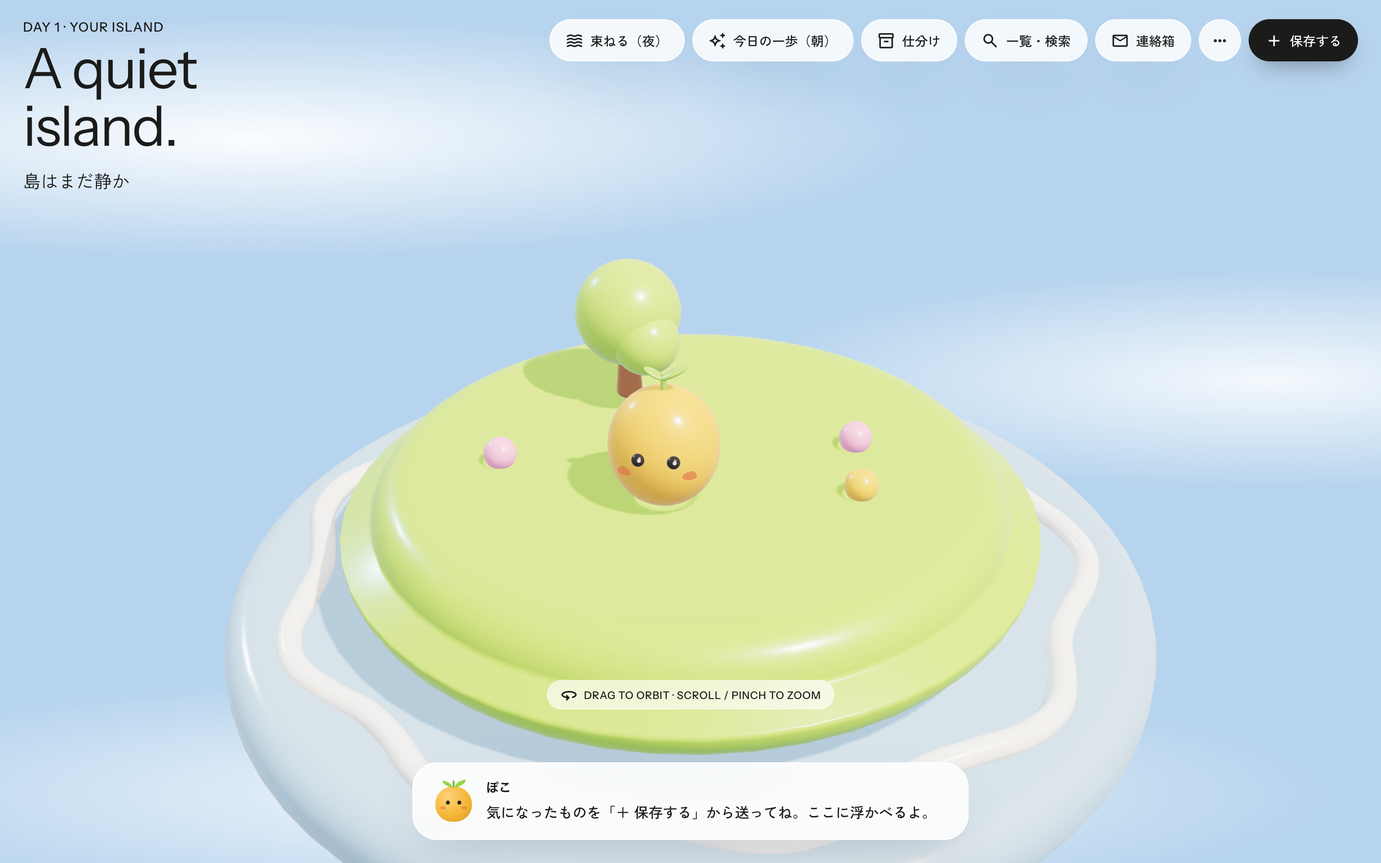
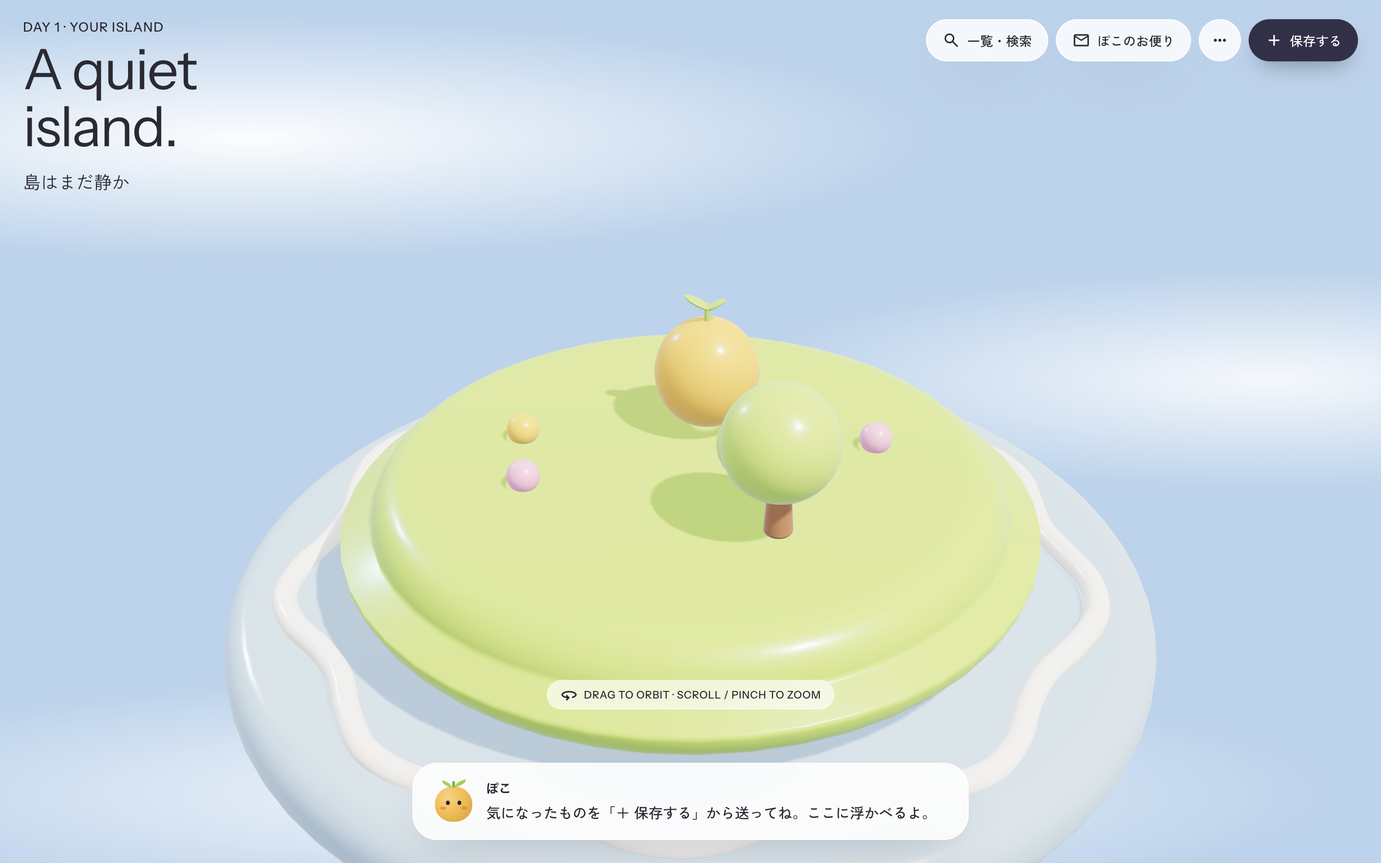
docs: 提出書類を実装に合わせて更新し、READMEを審査員向けに書き直す (#54)
* feat: 不特定多数にログインされてもAIの課金が嵩まないようにする

匿名認証は uid をタダで無限に作れるため、#29 で入れた callable の認証は
課金ガードとして機能していなかった。実際に開いていた穴は4つ。

- 夜の整理の items に件数上限がなく、埋め込みが Promise.all で無制限に並列になる
  （1リクエストで数千回の Gemini 呼び出しを起こせた）
- imageDataUrl / rawText も無制限で、callable の 10MB まで積めた
- レート制限が per-uid も per-IP も無く、実質「無料の Gemini プロキシ」だった
- onCall / onSchedule に maxInstances の指定が1つも無かった

提出要件4（デプロイURLを11/14まで稼働）があるため、止めるのではなく
劣化させる設計にした。上限超過は resource-exhausted で弾くが、クライアントは
ローカルエンジンにフォールバックするので画面は止まらない。カウンタの読み書きが
失敗したときも通す（ガードの故障で本番のAIを全滅させない）。

App Check は登録と計測だけで、サーバーでは検証しない。提出前日に適用すると
設定の取りこぼしで本番のAIが全滅するため、切り替えは提出後に回す。

候補比較と残余リスクは docs/decisions/005-ai-cost-guard.md に記録した。
UI の「月予算上限 $3」が表示だけで強制されていない件は、提出物の文言修正が
必要なものとして implementation-status.md 2.9 に積んである。

* docs: 定時バッチがクォータを通っていないことを記録する

夜23:00 / 朝8:00のバッチは callable を経由せずユースケースを直接呼ぶため、
カウンタを進めも読みもしない。「全体 20,000 / 日」にバッチぶんは含まれない。
バッチの量は listUserIds(100) と件数上限で決まるので当面は放置する。

* docs: 提出書類（説明ドキュメント・著作物台帳）を実装に合わせて更新し、READMEを審査員向けに書き直す (#53)

* docs: 動作確認手順を #41 以降の新しいホーム UI に合わせて書き直す

ヘッダーの［束ねる（夜）］［今日の一歩（朝）］は #41 で廃止され、
意味がある日だけドックに［まとめる］［束ね案を確認］［今日の一歩を見る］として出る。
審査員がそのままなぞる手順なので、product-doc 6.2 と README 2 章を実装に合わせた。

- 初回は 7 画面のストーリーボード（#40/#48）。「あとで」で飛ばせることを明記
- 束ね案の承認（S5）と、できた後の［まだ］［できた］（#45/#51）を手順に反映
- 4 人目のキャラクター「モフ」（GLB + Draco、ADR-006）を product-doc 7.1 と README に追記
- 7.1 の名称を実装に合わせる（いつか箱 / ○○のお便り）

* docs: 4章の起動契機も新しいボタン名にそろえる

* docs: README のスクリーンショットを新しい UI で撮り直す

旧 UI（ヘッダーに［束ねる（夜）］［今日の一歩（朝）］）のままで、
[…]

diff --git a/README.md b/README.md
@@ -1,120 +1,189 @@
-# hannari-hustlers
+# 島アプリ — 集めるを、動くに。
 
-保存したインスピレーションを 3D の島に浮かべ、PARA で整理して、1 日 1 つだけ小さな実行を提案するアプリ。Google ハッカソン参加作品。
+> SNS で見つけた「いつかやりたい」を、3D の自分の島に浮かべて、1 日 1 つだけ小さな一歩にしてくれる Web アプリ。
 
-> **初めての人は [docs/onboarding.md](docs/onboarding.md) から読んでください。** 環境の用意から1日の流れまで、これ1枚で始められます。
+**▶ 今すぐ試す: https://hannari-hustlers.web.app**（ログイン不要・スマホ / PC 対応・ホーム画面に追加できます）
 
-カテゴリ: クリエイティブ / 提出締切: **2026-11-10（火）19:00**
+DevFest GDGoC Japan 2026 Hackathon 提出作品 / カテゴリ: **クリエイティブ** / チーム: hannari-hustlers
 
-- **実装がどこまで動いているか**: [docs/implementation-status.md](docs/implementation-status.md)（本番で検証した結果と、するべきこと）
-- 提出物と残りスケジュール: [docs/submission.md](docs/submission.md)
-- 要件: [docs/requirements.md](docs/requirements.md)
-- アーキテクチャ: [docs/architecture.md](docs/architecture.md)
-- 画面遷移・ユースケース解説（PC版 / スマホ版スクリーンショット付き）: [docs/ui-and-usecases.md](docs/ui-and-usecases.md)
-- 技術選定: [docs/tech-selection.md](docs/tech-selection.md) / [docs/decisions/](docs/decisions)
+| スマホ | PC |
+|---|---|
+| ![島に浮かぶ保存カード（スマホ）](docs/screenshots/mobile-05-s2-floating-cards.png) | ![島に浮かぶ保存カード（PC）](docs/screenshots/pc-05-s2-floating-cards.png) |
 
-技術スタックは [ADR-002](docs/decisions/002-web-stack.md) および [ADR-003](docs/decisions/003-backend-and-data-model.md) で確定。Web + Vite + React + TypeScript + three.js を Firebase Hosting に配信 / Cloud Functions for Firebase / Firestore / Cloud Storage / Gemini API。言語は TypeScript に統一。
+---
 
-## セットアップ
+## 1. どんなアプリ？（誰にでもわかる説明）
 
-Codespaces（推奨）: **Code → Codespaces → Create codespace on main**
+Instagram・Pinterest・X で素敵なものを見つけて保存する。でも、見返さないまま溜まっていく。そんな経験はありませんか。
 
-ローカル: clone して VS Code の Dev Containers 拡張で開く。
+島アプリは、保存することを「ゴール」にせず、**やってみるところまで連れていく**ためのアプリです。
+
+1. **保存する** — スクリーンショットや画像、メモを島の「＋」から入れる。文章は書かなくていい
+2. **「やりたいこと」を選ぶ** — AI が「これを保存した理由」を 3 つ提案するので、タップで 1 つ選ぶだけ
+3. **島に浮かぶ** — 保存したものがカードになって、3D の島の上空に浮かぶ
+4. **夜のあいだに整理される** — 似たもの同士が自然に 1 つの束になって、島に降りてくる
+5. **朝、1 つだけ提案が届く** — 「今日は 15 分だけ、ここから始めてみませんか？」とキャラクターが声をかける
+6. **できたら、島に建物が建つ** — 実行した分だけ、島が育っていく
+
+「何件保存したか」ではなく、「何をやってみたか」が目に見える。それが島アプリの考え方です。
+
+### 画面の流れ
+
+| ① 空の島 | ② カードが浮かぶ | ③ 夜に束になる |
+|---|---|---|
+| ![](docs/screenshots/story-01-empty-island.png) | ![](docs/screenshots/story-02-floating-cards.png) | ![](docs/screenshots/story-03-night-bundle.png) |
+
+| ④ 朝の提案 | ⑤ 振り返り | ⑥ 建物が建つ |
+|---|---|---|
+| ![](docs/screenshots/mobile-07-s4-morning-proposal.png) | ![](docs/screenshots/mobile-09-s6-reflect.png) | ![](docs/screenshots/story-07-stage4-four-buildings-day.png) |
+
+画面ごとの詳しい解説は [docs/ui-and-usecases.md](docs/ui-and-usecases.md) にあります。
+
+### 3 つのこだわり
+
+- **ビジュアル** — 保存したものが島に積み重なって育っていく体験そのものを楽しめる
+- **意図を外さない整理** — 保存のたびに「やりたいこと」を 1 文に確定させ、それを軸に PARA メソッド（Projects / Areas / Resources / Archives）で整理する
+- **存在としてのキャラクター** — チャットではなく、島に住むキャラクターが 1 日 1 回だけ働きかける。急かさない
+
+---
+
+## 2. 審査員の方へ：3 分で試す手順
+
+ログインは不要です（匿名で自動的に始まります）。**同じブラウザで通しでお試しください。**
+
+ホーム画面に常に出ているボタンは「一覧・検索」「お便り」「設定」「＋ 保存する」の 4 つだけです。
+**次に押すボタンは、キャラクターの吹き出しの横に 1 つだけ出ます。** 下の手順は、その順番どおりに進みます。
+
+1. https://hannari-hustlers.web.app を開く。初回は島が生まれるところから 7 画面の案内が流れます（右上の「あとで」で飛ばせます）。最後に「まず島を眺める」を選べば島に出ます
+2. 「＋ 保存する」から、同じ話題の画像またはメモを **3 件**保存する（AI 送信同意をオンにすると Gemini が内容を読み取ります）
+3. 保存のたびに「これ、どうしたい？」の候補を 1 つタップして確定する
+4. 吹き出しの横に出た **［まとめる］** を押す。夜の景色になり、カードが島に降りて束になる（本来は毎晩 23:00 に自動で実行されます）
+5. **［束ね案を確認］** →「この束ね案を承認する」
+6. **［今日の一歩を見る］** → **［見てみる］** で今日の提案を開く（本来は毎朝 8:00）
+7. 「やってみる」→ 島に戻って **［できた］**。島に建物が建ちます
+
+> 夜・朝を待たずに試せるよう、設定（…）の「開発・デモ用」に「夜にする／朝にする」も置いてあります。
+
+詳しい手順は [docs/product-doc.md](docs/product-doc.md) の 6 章を参照してください。
+
+### 正直な現状
+
+動いていないものを動いていると書かないため、実装状況は本番で確かめた結果を [docs/implementation-status.md](docs/implementation-status.md) にまとめています。主な制約:
+
+- Web Push 通知は未実装（アプリ内の「しまの連絡箱」で代替）
+- 連絡箱の「外部検索」は検証用の**固定データ**（人物・会場・URL はすべて架空）で、外部検索 API は呼んでいません
+- オフライン動作は非対応（ホーム画面への追加まで）
+- 「月予算上限」の表示は目安です。実際の課金ガードは AI 呼び出しの回数制限とキルスイッチです
+
+---
+
+## 3. 技術の説明
+
+### 3.1 構成
+
+```mermaid
+flowchart LR
+    U["ブラウザ / ホーム画面に追加した PWA<br>React + three.js"]
+    subgraph GC["Google Cloud / Firebase"]
+        H["Firebase Hosting<br>配信 + /api/* rewrite"]
+        AU["Firebase Authentication<br>匿名認証"]
+        F["Cloud Functions<br>callable 5 本 / asia-northeast1"]
+        S["Scheduled Functions<br>夜 23:00 / 朝 08:00 JST"]
+        FS[("Cloud Firestore")]
+        ST[("Cloud Storage")]
+        SM["Secret Manager"]
+    end
+    G["Gemini API"]
+
+    U --> H --> F --> G
+    U --> AU
+    U --> FS
+    U --> ST
+    F -.-> SM
+    S ==>|"非同期"| FS
+    S --> G
+```
+
+| 領域 | 使用技術 |
+|---|---|
+| 実行基盤 | **Firebase Hosting**（提出要件の Google Cloud 実行基盤）、Cloud Functions for Firebase（Node 22・TypeScript） |
+| AI | **Gemini API**（Google AI Studio）。生成: `gemini-3.8-flash`、埋め込み: `gemini-embedding-001`。プロダクトが使う AI は Gemini のみ |
+| データ | Cloud Firestore、Cloud Storage for Firebase、Firebase Authentication（匿名） |
+| 定時実行 | Scheduled Functions（夜の束ね・朝の提案） |
+| フロントエンド | Vite + React 19 + TypeScript、three.js r128（3D の島。r128 固定の理由は [ADR-002](docs/decisions/002-web-stack.md)）。4 人目のキャラクター「モフ」は GLB + Draco で読み込み（[ADR-006](docs/decisions/006-glb-character-loading.md)） |
+| 検証 | Vitest、`scripts/check.sh`（機密情報検査・型・ビルド・テスト）。CI でも同じものを実行 |
+
+### 3.2 AI の使いどころ
+
+Gemini は自由に動き回るエージェントではなく、**決まった段階を通るパイプライン**として使っています。段階を固定すると、結果が想定から外れたときに原因を特定できます。
+
+| 段階 | 内容 |
+|---|---|
+| 読み取り | 画像・テキスト・URL のページ情報から、何が保存されたかを把握 |
+| 意図の 1 文化 | 「やりたいこと」の候補を 3 つ、構造化出力（`responseSchema` + Zod）で生成 |
+| 束ねる | 埋め込みベクトルのコサイン類似度でクラスタリングし、束の代表意図・要点を生成 |
+| 提案 | 束から今日の小さな一歩を 1 つ（15 分以内）。前回「まだ」だった場合はさらに小さく（5 分） |
+
+### 3.3 設計上のポイント
+
+- **4 層アーキテクチャ**（`presentation` / `application` / `infrastructure` / `domain`）をフロントとバックエンドの両方で統一。`domain` は外部フレームワークに依存しない純粋なルール。詳細は [docs/architecture.md](docs/architecture.md)
+- **3D の島は 1 度だけマウント**し、画面遷移では作り直さず差分更新（60fps を保つため）
+- **外部コンテンツはデータであって指示ではない**: 取得したページ本文は `<untrusted_content>` で隔離（間接プロンプトインジェクション対策）。URL 取得はプライベートアドレスを拒否（SSRF 対策）
+- **読めなかったら読めなかったと言う**: ログイン壁などで URL の中身が取れない場合、読めたふりをしない
+- **AI 課金ガード**: 入力サイズ上限、1 人 1 日 300 回・全体 1 日 20,000 回のクォータ、キルスイッチ、`maxInstances`。上限超過時は止めずにテンプレート文面へ劣化させるので、画面は止まらない（[ADR-005](docs/decisions/005-ai-cost-guard.md)）
+- **本人だけが見られる**: Firestore / Storage ルールで `users/{uid}` を本人のみに限定。AI 送信は同意が OFF なら行わない
+
+---
+
+## 4. ドキュメント
+
+| 読みたいこと | ドキュメント |
+|---|---|
+| 提出用の説明（課題・Google 技術・構成図・動作確認） | [docs/product-doc.md](docs/product-doc.md) |
+| 外部素材の一覧（著作物利用シート用） | [docs/assets.md](docs/assets.md) |
+| 実装状況（本番で確かめた結果） | [docs/implementation-status.md](docs/implementation-status.md) |
+| 画面・ユースケース | [docs/ui-and-usecases.md](docs/ui-and-usecases.md) |
+| 要件 / コンセプト | [docs/requirements.md](docs/requirements.md) / [docs/concept.md](docs/concept.md) |
+| 構成・技術選定の経緯 | [docs/architecture.md](docs/architecture.md) / [docs/decisions/](docs/decisions) |
+| 提出物と締切 | [docs/submission.md](docs/submission.md) |
+
+---
+
+## 5. 開発者向け
+
+初めての人は [docs/onboarding.md](docs/onboarding.md) から。
 
 ```bash
 git clone https://github.com/Kambara-Michiru/hannari-hustlers.git
 cd hannari-hustlers
-cp .env.example .env            # 値はチームのチャットで共有
-git config core.hooksPath .githooks   # push 前に check を通す（Codespaces では自動）
-```
-
-## 開発
-
-```bash
+cp .env.example .env              # 値はチームで共有
 npm install
-npm run dev    # http://localhost:5173
+npm run dev                       # http://localhost:5173
 ```
 
 | コマンド | 内容 |
 |---|---|
-| `npm run dev` | 開発サーバー（Vite + `/api/*` Gemini AI ミドルウェア） |
-| `npm run build` | `dist/` を生成 |
-| `npm run typecheck` | 型チェック（`tsc --noEmit`） |
-| `npm test` | 単体テスト実行（`vitest run`） |
-| `bash scripts/check.sh` | 検証の門。コミット前と push 時に通す |
+| `npm run dev` | 開発サーバー（Vite + `/api/*` の Gemini ミドルウェア） |
+| `npm run build` | `dist/`（Hosting）と `functions/lib/`（Functions）を生成 |
+| `npm run typecheck` / `npm test` | 型チェック / 単体テスト |
+| `bash scripts/check.sh` | 検証の門。コミット前と CI で通す |
 
-3D の島は [`src/vendor/island.js`](src/vendor/island.js) として組み込まれている。
-**three は 0.128.0 で固定。上げると島の色が壊れる**（理由は [ADR-002 の実装メモ](docs/decisions/002-web-stack.md)）。
-
-## デプロイ（Firebase Hosting & Functions）
-
-配信先は Firebase プロジェクト `hannari-hustlers`（`.firebaserc` にコミット済み、Blaze プラン）。
-
-### 初回だけ必要な準備
-
-1. **Web アプリの登録** — Firebase コンソール → プロジェクトの概要 → ＋ アプリを追加 → Web（`</>`）。
-   表示された設定値を `.env` の `VITE_FIREBASE_*`（キー名は `.env.example` 参照）に入れる。
-   これが未設定だとビルドは通るが、実行時に Firebase へ接続しない。
-2. **CLI ログイン** — 課金クレジットが付いた Google アカウントで入る。
-   どの請求先アカウントが紐づいているかは、コンソールの 設定 → 使用量と請求 で確認する。
-3. **Gemini の API キーを Secret Manager に登録** — Functions は `GEMINI_API_KEY` を
-   `defineSecret` で読む。`.env` の値はローカル開発専用で、デプロイ先には渡らない。
+デプロイ（Firebase プロジェクト `hannari-hustlers`）:
 
 ```bash
-npx firebase-tools login
-npx firebase-tools functions:secrets:set GEMINI_API_KEY
-```
-
-### デプロイ
-
-```bash
+npx firebase-tools functions:secrets:set GEMINI_API_KEY   # 初回のみ
 bash scripts/check.sh
 npx firebase-tools deploy --only hosting,functions,firestore:rules,storage
 ```
 
-`npm run build` は `dist/`（Hosting）と `functions/lib/`（Functions）の両方を生成する。
-`firebase.json` の rewrites で `/api/*` が `asia-northeast1` の各 Functions に向く。
-
-> 提出要件により、デプロイ URL は **2026-11-14 まで稼働させる**。
-> 環境の作り直しや課金停止は事前に確認すること（[AGENTS.md](AGENTS.md)）。
-
-## 開発フロー
-
-詳細は [docs/workflow.md](docs/workflow.md)。
-
-- `main` への直接 push は禁止。`feat/*` / `fix/*` / `docs/*` でブランチを切り、PR を出す
-- 検証は `bash scripts/check.sh` の1コマンド。人もAIもCIも同じ門を通る
-- PR には CI（`check`）と Gemini Code Assist のレビューが走る
-- Claude Code / Gemini CLI などの AI エージェントは [AGENTS.md](AGENTS.md) のルールに従う
-- イシューの実装は `/task`、PRレビューは `/review`（どちらも投稿前に確認あり）。不在時の一括実行は `/sleep`（確認なし）
-
-```bash
-git switch -c feat/<topic>
-git push -u origin feat/<topic>
-```
-
-## リポジトリ構成
+- `main` への直接 push は禁止。`feat/*` / `fix/*` / `docs/*` でブランチを切り PR を出す（[docs/workflow.md](docs/workflow.md)）
+- AI エージェントは [AGENTS.md](AGENTS.md) のルールに従う
+- デプロイ URL は提出要件により **2026-11-14 まで稼働**させる。環境の作り直しや課金停止は事前に確認すること
 
 | パス | 内容 |
 |---|---|
-| `src/` | フロントエンド実装（Vite + React + TypeScript: `components/`, `hooks/`, `services/`, `constants/`, `types/`, `styles/`, `vendor/`） |
-| `functions/` | バックエンド実装（Cloud Functions for Firebase + Gemini API · 4層アーキテクチャ） |
-| `public/` | 静的アセット（セルフホストフォント `fonts/`、PWA アイコン `icons/`、`manifest.webmanifest`、`sw.js`） |
-| `AGENTS.md` | AI エージェント共通ルール（`CLAUDE.md` / `GEMINI.md` から参照） |
-| `scripts/check.sh` | 検証の門（機密情報・lint・型・ビルド・テスト） |
-| `docs/onboarding.md` | メンバーが最初に読む導入 |
-| `docs/workflow.md` | イシュー・PR・レビュー・自動実行の運用 |
-| `docs/submission.md` | 提出物・締切・審査対象外になる条件・最終チェックリスト |
-| `docs/product-doc.md` | プロダクト説明ドキュメント（提出物）の下書き |
-| `docs/assets.md` | 著作物利用シート（提出物）のための外部素材台帳 |
-| `docs/ui-and-usecases.md` | PC版・スマホ版の画面遷移とユースケース解説（スクリーンショット付き） |
-| `docs/references/` | 主催者配布資料 |
-| `docs/requirements.md` | 要件定義 |
-| `docs/architecture.md` | 構成図・ディレクトリ構造・処理フロー |
-| `docs/tech-selection.md` | 技術選定の候補と論点 |
-| `docs/decisions/` | ADR（技術判断の記録: 001〜003） |
-| `.devcontainer/` | 開発環境定義（Codespaces / Dev Containers 共通） |
-| `.github/workflows/ci.yml` | CI |
-| `.gemini/` | Gemini Code Assist のレビュー設定 |
-| `.githooks/pre-push` | push 前に check を通す git hook |
-| `.claude/settings.json` | エージェントのガードレール（deny / ask） |
+| `src/` | フロントエンド（4 層。`vendor/island.js` が 3D の島） |
+| `functions/` | バックエンド（Cloud Functions + Gemini API・4 層） |
+| `public/` | フォント、PWA アイコン、manifest、3D モデル（`models/`・`draco/`） |
+| `docs/` | 要件・設計・ADR・提出物 |
+| `scripts/check.sh` | 検証の門 |

diff --git a/docs/assets.md b/docs/assets.md
@@ -22,14 +22,17 @@
 | 4 | Material Symbols Outlined | フォント（アイコン） | https://fonts.google.com/icons | Google | Apache License 2.0 | `public/fonts/` 各画面のアイコン | **あり** — 軸を opsz24/wght400/FILL0/GRAD0 に固定し、使用する24個だけにサブセット（2.3MB → 268KB） | 不要 | 収録しているアイコンは下の一覧のとおり。足すときは取り直しが必要 |
 | 5 | three.js r128 | OSS ライブラリ | https://github.com/mrdoob/three.js/tree/r128 | three.js authors (mrdoob) | MIT | `package.json` (`"three": "0.128.0"`) | なし | 不要 | r152 以降の color management 刷新で削除された API に `src/vendor/island.js` が依存しているため r128 に固定。詳細は `docs/decisions/002-web-stack.md` |
 | 6 | island.js（3Dの島とキャラクター） | 生成AIで作った素材 | — | Claude（Claude Design） | — | `src/vendor/island.js` | なし（生成物をそのまま使用） | 要確認 | Claude Design のデザインプロジェクト「Island mobile app form」で生成。three.js で島・キャラクター（ぽこ／ともり／ふみ）・カード・ステッカーを手続き的に描く。外部の画像素材は使っておらず、模様はすべてコード生成 |
-| 7 | 島アプリのUI（S1〜S9） | 生成AIで作った素材 | — | Claude / Gemini | — | `src/components/screens/`・`src/styles/styles.css` | — | 要確認 | デザインは Claude Design のプロトタイプ v2 をベースに、PC（右ドロワー）＆スマホ（ボトムシート）両対応の React + TypeScript コンポーネントとして実装 |
+| 7 | 島アプリのUI（S1〜S9） | 生成AIで作った素材 | — | Claude / Gemini | — | `src/presentation/screens/`・`src/presentation/styles/styles.css` | — | 要確認 | デザインは Claude Design のプロトタイプ v2 をベースに、PC（右ドロワー）＆スマホ（ボトムシート）両対応の React + TypeScript コンポーネントとして実装 |
 | 8 | アプリアイコン | 生成AIで作った素材 | — | Claude Code | — | `public/icons/*.png` | — | 要確認 | 外部素材を使わず、Python の zlib だけで PNG を直接生成。空色の地に島とドームを描いたもの |
 | 9 | React / React DOM | OSS ライブラリ | https://react.dev/ | Meta Platforms, Inc. | MIT | `src/` フロントエンド UI | なし | 不要 | ADR-002 / ADR-003 に基づき S1〜S9 の画面コンポーネントで使用 |
-| 10 | Firebase JS SDK / Firebase Functions / Genkit | OSS ライブラリ | https://firebase.google.com/ | Google | Apache License 2.0 | `src/infrastructure/firebase/`, `functions/` | なし | 不要 | Auth / Firestore / Storage / Cloud Functions で使用。Genkit は依存に含まれるが実行経路外 |
-| 11 | Zod | OSS ライブラリ | https://zod.dev/ | Colin McDonnell | MIT | `functions/src/schemas.ts` | なし | 不要 | Gemini 構造化出力の型検証で使用 |
+| 10 | Firebase JS SDK / Firebase Admin / Firebase Functions / Genkit | OSS ライブラリ | https://firebase.google.com/ | Google | Apache License 2.0 | `src/infrastructure/firebase/`, `functions/` | なし | 不要 | Auth / Firestore / Storage / Cloud Functions で使用。Genkit は依存に含まれるが実行経路外（提出後に削除を判断） |
+| 11 | Zod | OSS ライブラリ | https://zod.dev/ | Colin McDonnell | MIT | `functions/src/domain/schemas.ts`, `src/` | なし | 不要 | Gemini 構造化出力の型検証で使用 |
 | 12 | モフ（3D キャラクター） | 生成AIで作った素材 | — | RodinAI | 要確認 | `public/models/mofu.glb` 島の4人目のキャラクター | **あり** — glTF-Transform で Draco 圧縮・テクスチャを WebP に変換（23MB → 1.35MB） | 要確認 | RodinAI で生成。プロンプトの要旨: 要確認 |
 | 13 | モフのアイコン画像 | 生成AIで作った素材 | — | ChatGPT | 要確認 | `public/characters/mofu.png` 吹き出し・シートのキャラアイコン | なし | 要確認 | ChatGPT で生成。プロンプトの要旨: 要確認 |
 | 14 | Draco デコーダ（three r128 同梱） | OSS ライブラリ | https://github.com/google/draco | Google | Apache License 2.0 | `public/draco/` モフの GLB の展開 | なし（`node_modules/three/examples/js/libs/draco/gltf/` からコピー） | 不要 | ADR-006。GLTFLoader / DRACOLoader は three r128（#5）に同梱のもの |
+| 15 | Vite / @vitejs/plugin-react / Vitest / TypeScript | OSS ライブラリ（ビルド・開発ツール） | https://vite.dev/ ほか | Vite contributors / Evan You, Microsoft ほか | MIT / Apache License 2.0（TypeScript） | `package.json` devDependencies | なし | 不要 | 配信物には含まれないビルド・テスト用 |
+| 16 | デモ・サンプルデータ（連絡箱の参照データ） | 自作データ | — | 自チーム | — | `functions/src/infrastructure/discoverySearchAdapter.ts`, `src/domain/rules/proactiveDiscoveryRules.ts` | — | 不要 | 人物・会場・情報元はすべて架空。URL は `example.com` 配下。外部コンテンツや実在の個人情報は使っていない |
+| 17 | Gemini API（実行時の生成） | 外部 API | https://ai.google.dev/ | Google | Gemini API 利用規約 | `functions/src/infrastructure/geminiClient.ts` | — | 不要 | 保存物の読み取り・意図候補・提案文・埋め込みを生成。生成テキストは保存物ごとに実行時に作られ、素材としては同梱していない |
 
 ### Material Symbols で収録しているアイコン
 

diff --git a/docs/submission.md b/docs/submission.md
@@ -14,9 +14,9 @@
 | # | 提出物 | 提出先 | 下書き | 担当 | 状態 |
 |---|---|---|---|---|---|
 | 1 | GitHub リポジトリ | フォームに URL | 本リポジトリ | | |
-| 2 | プロダクト説明ドキュメント | Drive | [product-doc.md](product-doc.md) | | 下書きに 1〜3 章を記入済み。残りは実装後 |
+| 2 | プロダクト説明ドキュメント | Drive | [product-doc.md](product-doc.md) | | 1〜5 章・7〜8 章を実装に合わせて記入済み（2026-11-10）。残りは `TODO:`（会場・メンバー・9 章・PDF 化） |
 | 3 | デモ動画 | Drive | [demo-video.md](demo-video.md) | | 未着手 |
-| 4 | 著作物利用シート | Drive | [assets.md](assets.md) | | 未着手 |
+| 4 | 著作物利用シート | Drive | [assets.md](assets.md) | | 台帳を 14 行に更新済み（2026-11-10）。主催者配布の xlsx への転記が残り |
 | 5 | ピッチ用スライド | Drive | | | 現地会場の申込者のみ。該当するか要確認 |
 
 オンライン会場の場合、3 はデモ動画ではなくプレゼン動画。
